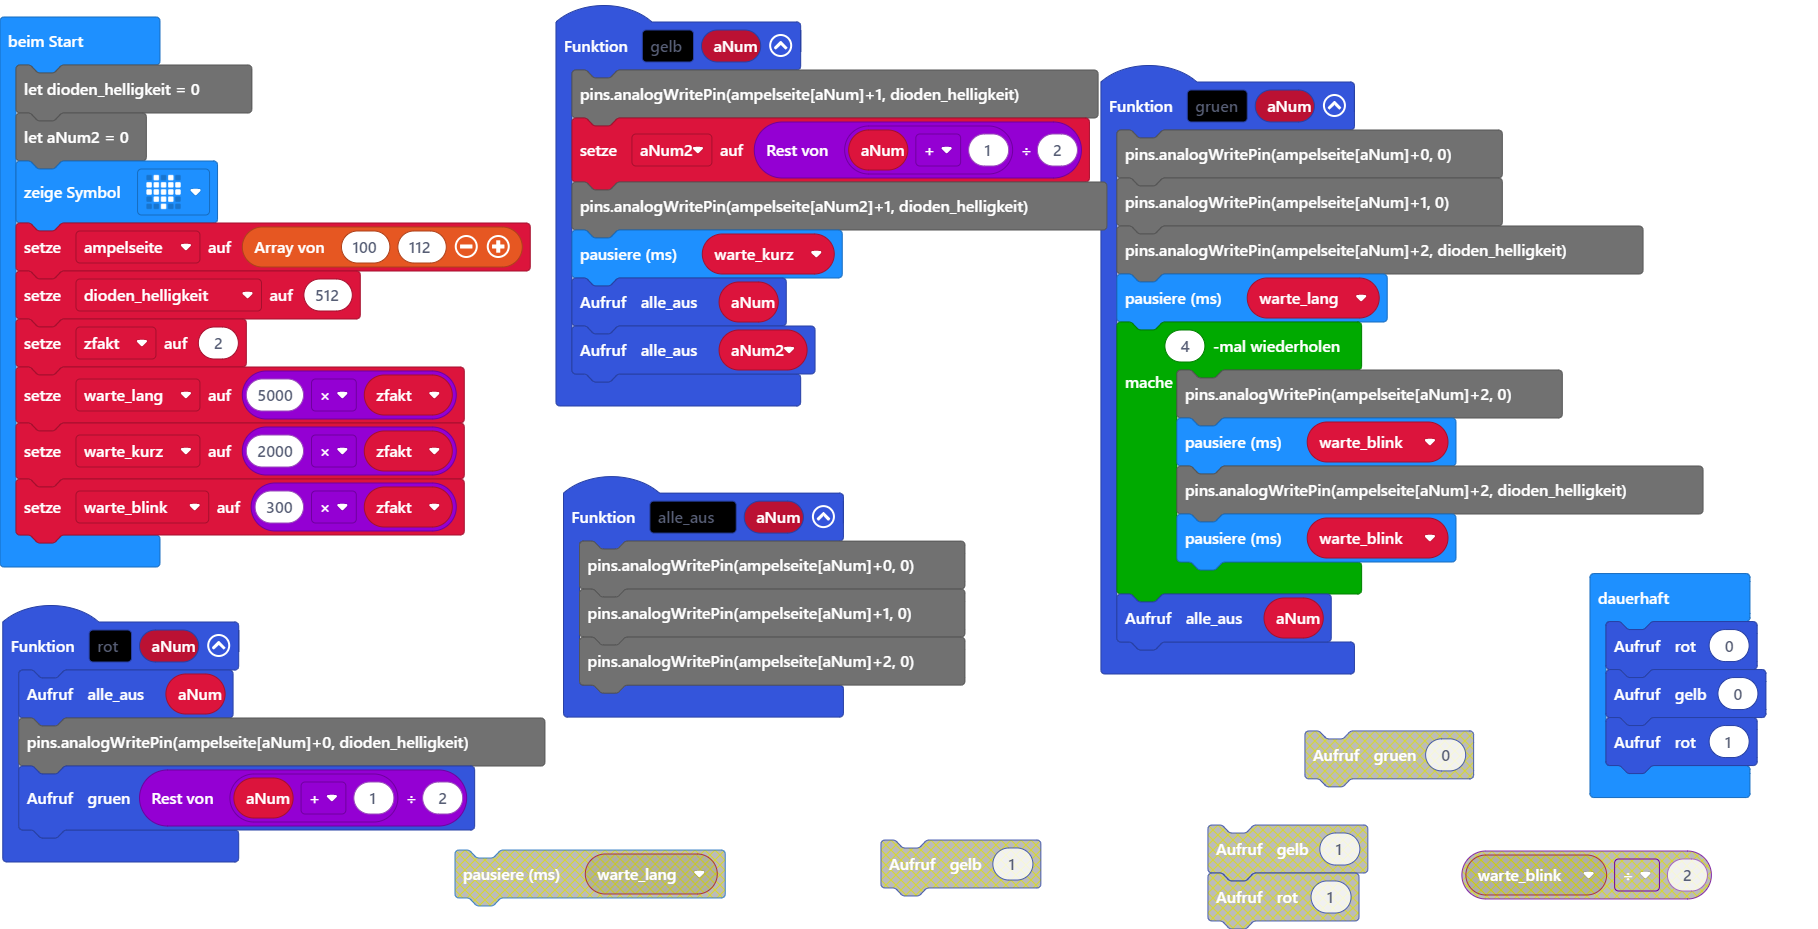
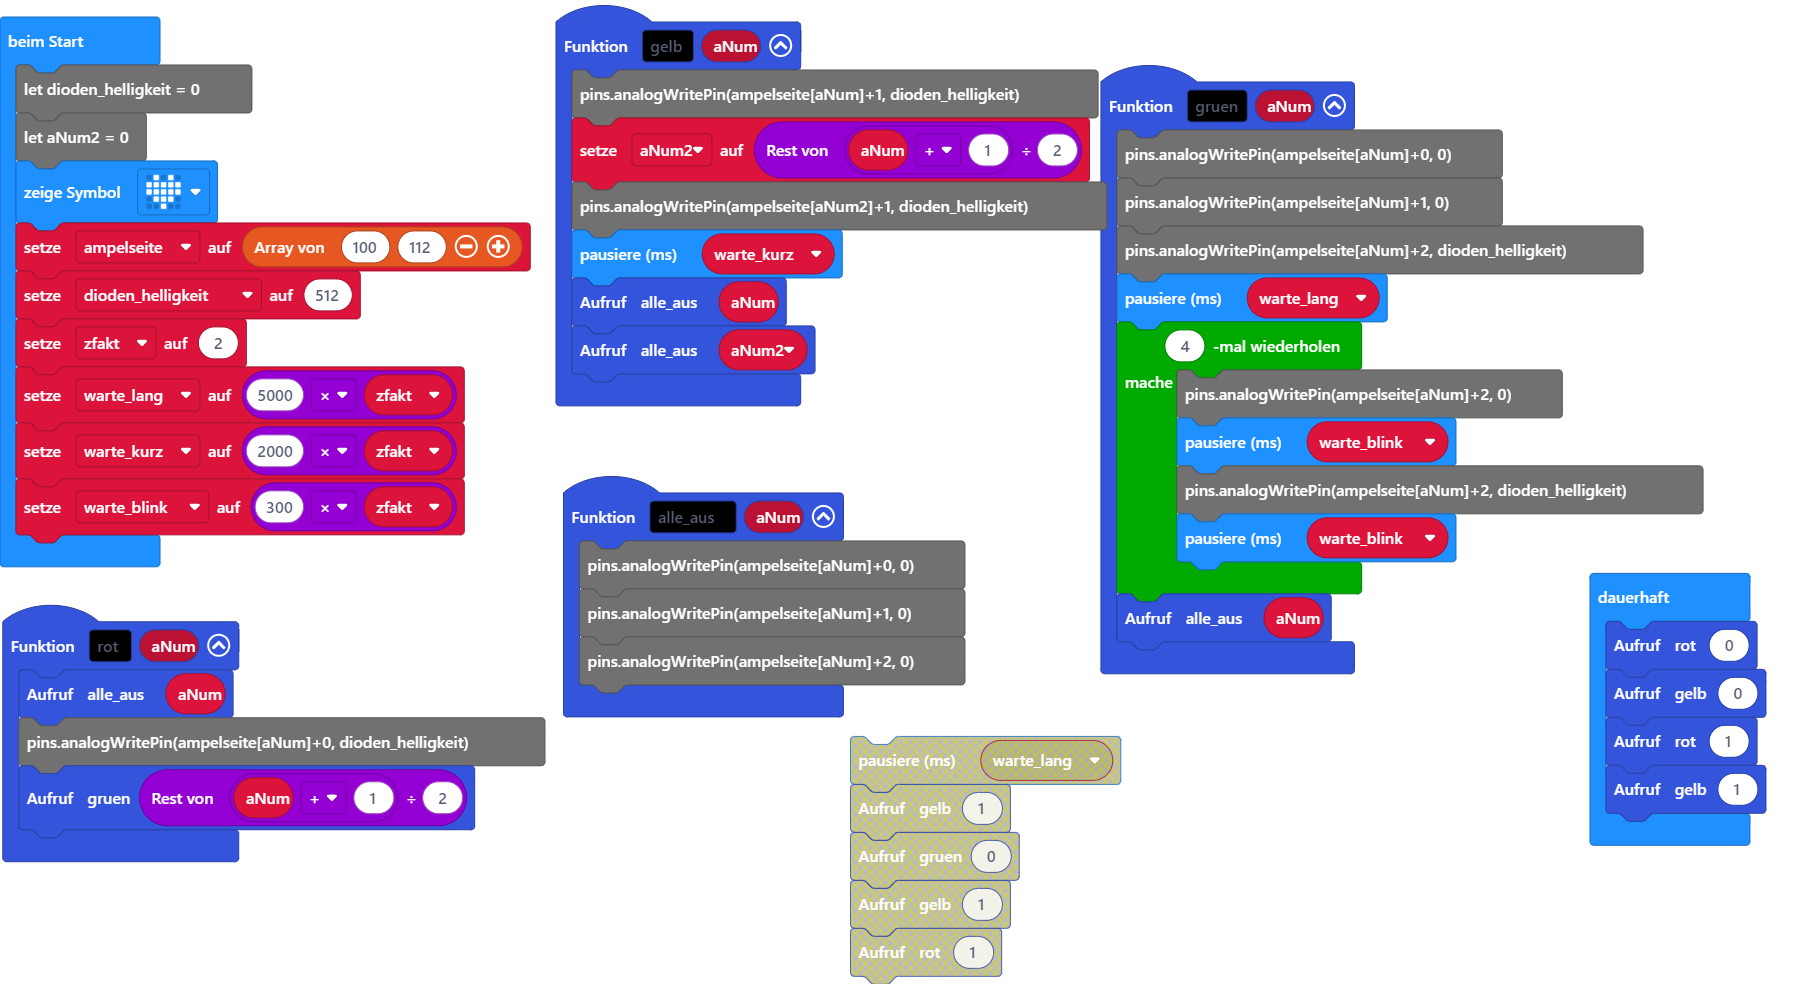
Aktualisiere main.blocks, main.ts

diff --git a/main.ts b/main.ts
@@ -45,4 +45,5 @@ basic.forever(function () {
     rot(0)
     gelb(0)
     rot(1)
+    gelb(1)
 })
